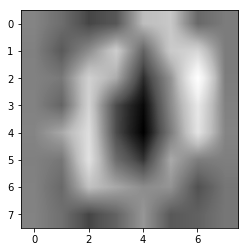
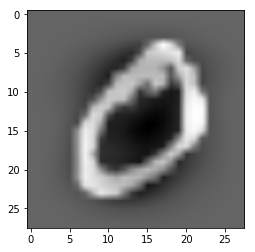
v2

diff --git a/main.py b/main.py
@@ -1,39 +1,36 @@
-
 import numpy as np
-import sklearn.datasets
 import matplotlib
 import matplotlib.pyplot as plt 
+import struct
 import importlib
+import os
 
-from autoencodernumpy import autoencoder 
+from autoencodernumpy import autoencoder, denoisingautoencoder
+from utility import Utility 
+
+DenoisingAutoEncoder = importlib.reload(denoisingautoencoder).DenoisingAutoEncoder
 AutoEncoder = importlib.reload(autoencoder).AutoEncoder
 
-inputs, Y = sklearn.datasets.load_digits( n_class=10, return_X_y=True)
+np.random.seed(1)
 
-def dataScale(X):
-    mean_ = np.nanmean(X, axis = 0)
-    scale_ = np.nanstd(X, axis = 0)
-    print(scale_.shape)
-    X -= mean_
-    scale_[scale_ == 0.0] = 1.0
-    X /= scale_
-    return X
-
-inputs = dataScale(inputs)
-
-np.random.seed(0)
+inputs = Utility.readIDX('/mnt/ebs-1/rauf_bhat/git_repo_rauf/DataSets/train-images-idx3-ubyte')
+lables = Utility.readIDX('/mnt/ebs-1/rauf_bhat/git_repo_rauf/DataSets/train-labels-idx1-ubyte')
+inputs = inputs.reshape(inputs.shape[0],28*28)
 
 network_arch = [{'layer_type':'input', 'size':inputs.shape[-1],'network_part':'encoder'},
-                {'layer_type':'hidden', 'size':49, 'activation':'sigmoid','network_part':'encoder'},
+                {'layer_type':'hidden', 'size':20, 'activation':'sigmoid','network_part':'encoder'},
                 {'layer_type':'output', 'size':inputs.shape[-1], 'activation':'leakyrelu','network_part':'decoder'}]
 
 loss_func = 'meansquared'
 optimiser_method = 'momentum'
 learning_rate = 0.001
-epoch = 50000
-partition = 1
+epoch = 10
+partition = 1000
 mode = 'train'
 loss_display_freq = 1
+percentage = 0.2
+                                          
+inputs = Utility.dataScale(inputs)
 
 auto_encoder = AutoEncoder(loss_func, optimiser_method, learning_rate, epoch, partition, mode, network_arch,beta =0.9)
 
@@ -53,38 +50,32 @@ test_out_sample = auto_encoder.forwardPass(inputs[img_index], 1)
 #actual
 print('Actual image for index:{}'.format(img_index))
 plt.gray() 
-plt.imshow(inputs[img_index].reshape(8,8),interpolation='bilinear', cmap=plt.cm.Greys_r) 
+plt.imshow(inputs[img_index].reshape(28,28),interpolation='bilinear', cmap=plt.cm.Greys_r) 
 plt.show() 
 
 #regenrated
 print('Reconstructed image for index:{}'.format(img_index))
-plt.imshow(test_out_sample.reshape(8,8),interpolation='bilinear', cmap=plt.cm.Greys_r) 
+plt.imshow(test_out_sample.reshape(28,28),interpolation='bilinear', cmap=plt.cm.Greys_r) 
 plt.show() 
 
+#*********************** Ploting weights ***************
+Utility.plotWeights(encoder_layers, save = False)
+Utility.plotWeights(decoder_layers, save = False)
+
+#Denoising AutoEncoder
+
+auto_encoder = DenoisingAutoEncoder(loss_func, optimiser_method, learning_rate, epoch, partition, mode, network_arch,beta =0.9)
+
+auto_encoder.createNetwork()
+
+inputs = auto_encoder.addGaussianNoise(inputs,0.2)
+
+auto_encoder.mode = 'train'
+auto_encoder.train(inputs,inputs)
+
+encoder_layers = auto_encoder.encoder_layer_list
+decoder_layers = auto_encoder.decoder_layer_list
 
 #*********************** Ploting weights ***************
-
-print('Weights')
-#encoder
-fig = plt.figure(figsize=(10, 10))
-for index, _layer in enumerate(encoder_layers):
-    rows = columns = 7
-    print('Encoder layer: {}'.format(index))
-    image_shape = 8
-    for i in range(columns*rows):
-        layer2 = _layer.w.T[i].reshape(image_shape,image_shape)
-        fig.add_subplot(rows, columns, i+1)
-        plt.imshow(layer2,interpolation='bilinear', cmap=plt.cm.Greys_r)
-    plt.show()
-
-#decoder
-fig = plt.figure(figsize=(10, 10))
-for index, _layer in enumerate(decoder_layers):
-    rows = columns = 8
-    print('Decoder layer: {}'.format(index))
-    image_shape = 7
-    for i in range(columns*rows):
-        layer2 = _layer.w.T[i].reshape(image_shape,image_shape)
-        fig.add_subplot(rows, columns, i+1)
-        plt.imshow(layer2,interpolation='bilinear', cmap=plt.cm.Greys_r)
-    plt.show()
+Utility.plotWeights(encoder_layers, save = False)
+Utility.plotWeights(decoder_layers, save = False)

diff --git a/autoencodernumpy/sparseautoencoder.py b/autoencodernumpy/sparseautoencoder.py
@@ -1,0 +1,54 @@
+import numpy as np
+import importlib
+
+from autoencodernumpy import autoencoder
+AutoEncoder = importlib.reload(autoencoder).AutoEncoder
+
+class SparseAutoEncoder(AutoEncoder):
+    def __init__(self,loss_func, optimiser_method, learning_rate, epoch, partition, mode, network_arch, roh, **kwargs):
+        super().__init__(loss_func, optimiser_method, learning_rate, epoch, partition, mode, network_arch, **kwargs)
+        self.roh = roh
+        self.regularisation_type = 'kldivergence'
+        
+    @staticmethod
+    def accumulateRegularisedLoss(self, y_activation):
+        roh_hat = np.mean(y_activation, axis=0)
+        self.loss.reg_loss = self.loss.reg_loss + self.loss.gamma*np.sum(self.roh*np.log(self.roh/(roh_hat)) +(1-self.roh)*np.log((1-self.roh)/(1-roh_hat)))
+
+    @staticmethod
+    def regularisedLossGradient(self, y_activation):
+        if self.regularisation_type == 'kldivergence':
+            roh_hat = np.sum(y_activation)/y_activation.shape[-1]
+            return  self.loss.gamma*(-1*self.roh/(roh_hat)) + ((1-self.roh)/(1-roh_hat))
+
+    def forwardPass(self, inputs, outputs):
+        layer_out = inputs
+        for _layer in self.layers_list:
+            layer_out = _layer(inputs)
+            inputs = layer_out
+            SparseAutoEncoder.accumulateRegularisedLoss(self, _layer.y_activation)
+        if self.mode.lower() == 'train':
+            self.loss.getLoss()(layer_out,outputs)
+            self.loss.getLossTotal()
+        elif self.mode.lower() == 'test':
+            return layer_out
+    
+    def backProp(self, inputs):
+        upstream_gradient = self.loss.loss_derivative
+        for index, _layer in enumerate(reversed(self.layers_list)):
+            if _layer.layer_type == 'output':
+                upstream_gradient =  np.multiply(_layer.activation_derivative, upstream_gradient)
+                upstream_gradient_w =  np.matmul(self.layers_list[len(self.layers_list)-2].y_activation.T, upstream_gradient) 
+            if _layer.layer_type == 'hidden':
+                upstream_gradient =  np.matmul(upstream_gradient, self.layers_list[len(self.layers_list) -index].w.T) + SparseAutoEncoder.regularisedLossGradient(self, _layer.y_activation)
+                upstream_gradient = np.multiply(upstream_gradient,_layer.activation_derivative)
+                if (len(self.layers_list)-index-1) != 0:
+                    upstream_gradient_w = np.matmul(self.layers_list[len(self.layers_list) -index -2].y_activation.T,upstream_gradient)
+                else:
+                    upstream_gradient_w = np.matmul(inputs.T,upstream_gradient)
+            upstream_gradient_b = np.sum(upstream_gradient,axis=0).T
+            self.optimiser(_layer, upstream_gradient_w, upstream_gradient_b)
+    
+        for _layer_ in self.layers_list:
+            _layer_.w = _layer_.w + _layer_.w_delta 
+            _layer_.b = _layer_.b + _layer_.b_delta

diff --git a/neuralnetnumpy/neuralnet.py b/neuralnetnumpy/neuralnet.py
@@ -15,11 +15,11 @@ class NeuralNet:
         self.partition_size = partition_size 
         self.mode = mode
         self.layers_list = []
-        self.loss  = loss.Loss(self.loss_func)
+        self.loss  = loss.RegularisedLoss(loss_func, kwargs.get('reularisation',None), kwargs.get('gamma',0))
         self.network_arch = network_arch
         if optimiser_method == 'momentum':
             momentum = True
-            self.optimiser = optimiser.GradientDescent(momentum, learning_rate,beta = kwargs['beta'])
+            self.optimiser = optimiser.GradientDescent(momentum, learning_rate,beta = kwargs.get('beta',0.9))
         else:
             momentum = False
             self.optimiser = optimiser.GradientDescent(momentum, learning_rate)
@@ -35,12 +35,14 @@ class NeuralNet:
         for _layer in self.layers_list:
             layer_out = _layer(inputs)
             inputs = layer_out
+            self.loss.accumulateRegularisedLoss(_layer.w)
         if self.mode.lower() == 'train':
             self.loss.getLoss()(layer_out,outputs)
+            self.loss.getLossTotal()
         elif self.mode.lower() == 'test':
             return layer_out
     
-    def backProp(self, inputs,**kwargs):
+    def backProp(self, inputs):
         upstream_gradient = self.loss.loss_derivative
         for index, _layer in enumerate(reversed(self.layers_list)):
             if _layer.layer_type == 'output':
@@ -57,8 +59,8 @@ class NeuralNet:
             self.optimiser(_layer, upstream_gradient_w, upstream_gradient_b)
     
         for _layer_ in self.layers_list:
-            _layer_.w = _layer_.w + _layer_.w_delta
-            _layer_.b = _layer_.b + _layer_.b_delta
+            _layer_.w = _layer_.w + _layer_.w_delta + self.loss.regularisedLossGradient(_layer_.w)
+            _layer_.b = _layer_.b + _layer_.b_delta + self.loss.regularisedLossGradient(_layer_.b)
     
     def train(self, inputs, outputs):
         inputs = np.array_split(inputs, self.partition_size)
@@ -67,6 +69,6 @@ class NeuralNet:
             for index, (inp_batch, out_batch) in enumerate(zip(inputs, Y)):  
                 self.forwardPass(inp_batch, out_batch)
                 self.backProp(inp_batch)
-                print('Epoch:{}  batch: {}/{}    Loss: {}'.format(i+1, index+1, self.partition_size, self.loss.loss), end='\r', flush=True)
-            #print("",end="\n")
+                print('Epoch:{}  batch: {}/{}  Overall Loss : {}'.format(i+1, index+1, self.partition_size, self.loss.loss_total), end='\r', flush=True)
+            print("",end="\n")
                 

diff --git a/neuralnetnumpy/loss.py b/neuralnetnumpy/loss.py
@@ -12,10 +12,45 @@ class Loss:
                 error =  y - y_pred
                 self.loss = np.sum(np.diag(np.matmul(error,error.T))) / y.shape[-1]
                 self.loss_derivative = -1*error
+                
         if self.loss_func.lower() == 'crossentropy':
             def func(y_pred,y):
                 epsilon = 1e-12 
                 y_pred = np.clip(y_pred, epsilon, 1 - epsilon)
-                self.loss = np.sum(-1*(np.multiply(y,np.log(y_pred))+np.multiply((1-y),np.log(1- y_pred))))/y_pred.shape[-1]
-                self.loss_derivative = -1*(np.divide(y, y_pred))+ np.divide(1-y ,1 - y_pred) 
+                self.loss = -1*(np.sum(np.multiply(y,np.log(y_pred)) + np.multiply((1-y),np.log(1- y_pred))))/y.shape[-1]
+                self.loss_derivative = -1*(np.divide(y,y_pred)+ np.divide((1-y),(1 - y_pred))) 
+        
         return func
+
+
+class RegularisedLoss(Loss):
+    def __init__(self, loss_func, regularisation_type, gamma):
+        super().__init__(loss_func)
+        self.regularisation_type = regularisation_type
+        self.gamma = gamma
+        self.reg_loss = 0.0
+        self.reg_derivative = np.zeros(1)
+        self.loss_total = self.loss + self.reg_loss
+    
+    def accumulateRegularisedLoss(self, parameter):
+        if self.regularisation_type == 'l2':
+            self.reg_loss = self.reg_loss + self.gamma*np.trace(parameter*parameter.T)
+
+        if self.regularisation_type == 'l1':
+            self.reg_loss = self.reg_loss + self.gamma*np.trace(parameter)
+        
+    def regularisedLossGradient(self, parameter):
+        if self.regularisation_type == 'l2':
+            self.reg_derivative = (self.gamma/parameter.shape[-1])*parameter
+
+        if self.regularisation_type == 'l1':
+            self.reg_derivative = (self.gamma/parameter.shape[-1])*np.ones(parameter.shape)
+
+        if self.regularisation_type == None:
+            self.reg_derivative = np.zeros(parameter.shape)
+        
+        return self.reg_derivative
+
+    def getLossTotal(self):
+        self.loss_total = self.loss + self.reg_loss
+        self.reg_loss = 0

diff --git a/utility.py b/utility.py
@@ -1,0 +1,55 @@
+import os
+import struct
+import math
+import numpy as np
+import matplotlib
+import matplotlib.pyplot as plt 
+
+BASE_DIR = os.path.dirname(os.path.dirname(os.path.abspath(__file__)))
+
+
+class Utility:
+    def __init__(self):
+        pass
+    
+    @staticmethod
+    def dataScale(X):
+        mean = np.nanmean(X, axis = 0)
+        std = np.nanstd(X, axis = 0)
+        X = X  - mean
+        std[std == 0.0] = 1.0
+        X = X/std
+        return X
+
+    @staticmethod
+    def readIDX(filename):
+        with open(filename, 'rb') as f:
+            zero, data_type, dims = struct.unpack('>HBB', f.read(4))
+            shape = tuple(struct.unpack('>I', f.read(4))[0] for d in range(dims))
+            return np.frombuffer(f.read(), dtype=np.uint8).reshape(shape)
+    
+    @staticmethod
+    def closestDivisors(n):
+        a = round(math.sqrt(n))
+        while n%a > 0: a -= 1
+        return a,n//a
+        
+    @staticmethod
+    def plotWeights(layers, save = False, **kwargs):
+        fig = plt.figure(figsize=(10, 10))
+        for index, _layer in enumerate(layers):
+            rows, columns = Utility.closestDivisors(_layer.w.shape[-1])
+            print('layer: {}'.format(index))
+            image_shape = Utility.closestDivisors(_layer.w.shape[0])
+            for i in range(columns*rows):
+                layer_temp = _layer.w.T[i].reshape(image_shape)
+                ax = fig.add_subplot(rows, columns, i+1)
+                ax.set_yticklabels([])
+                ax.set_xticklabels([])
+                plt.imshow(layer_temp, interpolation='bilinear', cmap=plt.cm.Greys_r)
+            plt.show()
+            if save:
+                os.makedirs(os.path.dirname(os.path.join(BASE_DIR, 'Outputs/')), exist_ok = True)
+                plt.savefig(os.path.join(BASE_DIR, 'Outputs/{}_Layer{}_Weights_{}.png'.format(_layer['network_part'],index)))
+                print('Outputs Saved: {}'.format(BASE_DIR))
+    

diff --git a/autoencodernumpy/denoisingautoencoder.py b/autoencodernumpy/denoisingautoencoder.py
@@ -1,0 +1,28 @@
+import numpy as np
+import importlib
+
+from autoencodernumpy import autoencoder
+AutoEncoder = importlib.reload(autoencoder).AutoEncoder
+
+class DenoisingAutoEncoder(AutoEncoder):
+    def __init(self,loss_func, optimiser_method, learning_rate, epoch, partition, mode, network_arch,beta):
+        super().__init__(self,loss_func, optimiser_method, learning_rate, epoch, partition, mode, network_arch,beta)
+        self.percentage = 0.2
+            
+    def addGaussianNoise(self, X, percentage):
+        self.percentage = percentage
+        np.random.shuffle(X)
+        noise = np.random.normal(0, 1, X.shape[-1])
+        non_noise_indices = np.random.randint(0, X.shape[-1], size = int(noise.size *(1 - percentage)))
+        noise[non_noise_indices] = 0
+        X = X + noise
+        return X
+    
+    def addBinaryNoise(self, X, percentage):
+        self.percentage = percentage
+        np.random.shuffle(X)
+        noise = np.random.randint(0, 1, X.shape[-1])
+        non_noise_indices = np.random.randint(0, X.shape[-1], size = int(noise.size *(1 - percentage)))
+        noise[non_noise_indices] = 0
+        X = X + noise
+        return X        

diff --git a/neuralnetnumpy/layer.py b/neuralnetnumpy/layer.py
@@ -9,7 +9,11 @@ class Layer:
     def __init__(self, input_count, neruon_count, activation_func,layer_type):
         self.layer_type = layer_type
         self.activation_func = activation_func
-        self.w = np.random.randn(input_count,neruon_count) / np.sqrt(input_count) 
+        if self.activation_func.lower().endswith('elu'):
+            denominator = np.sqrt(neruon_count/2)
+        else:
+            denominator = np.sqrt(neruon_count)
+        self.w = np.random.randn(input_count,neruon_count) / denominator 
         self.w_delta = np.zeros((input_count,neruon_count))
         self.b = np.ones((neruon_count, 1))
         self.b_delta = np.zeros((neruon_count, 1))

diff --git a/autoencodernumpy/autoencoder.py b/autoencodernumpy/autoencoder.py
@@ -7,9 +7,9 @@ layer = importlib.reload(layer)
 
 class AutoEncoder(NeuralNet):
     def __init__(self, loss_func, optimiser_method, learning_rate, epoch, partition_size, mode, network_arch,**kwargs):
+        super().__init__(loss_func, optimiser_method, learning_rate, epoch, partition_size, mode, network_arch,**kwargs)
         self.encoder_layer_list = [] 
         self.decoder_layer_list = []
-        super().__init__(loss_func, optimiser_method, learning_rate, epoch, partition_size, mode, network_arch,**kwargs)
         
                     
     def createNetwork(self):
